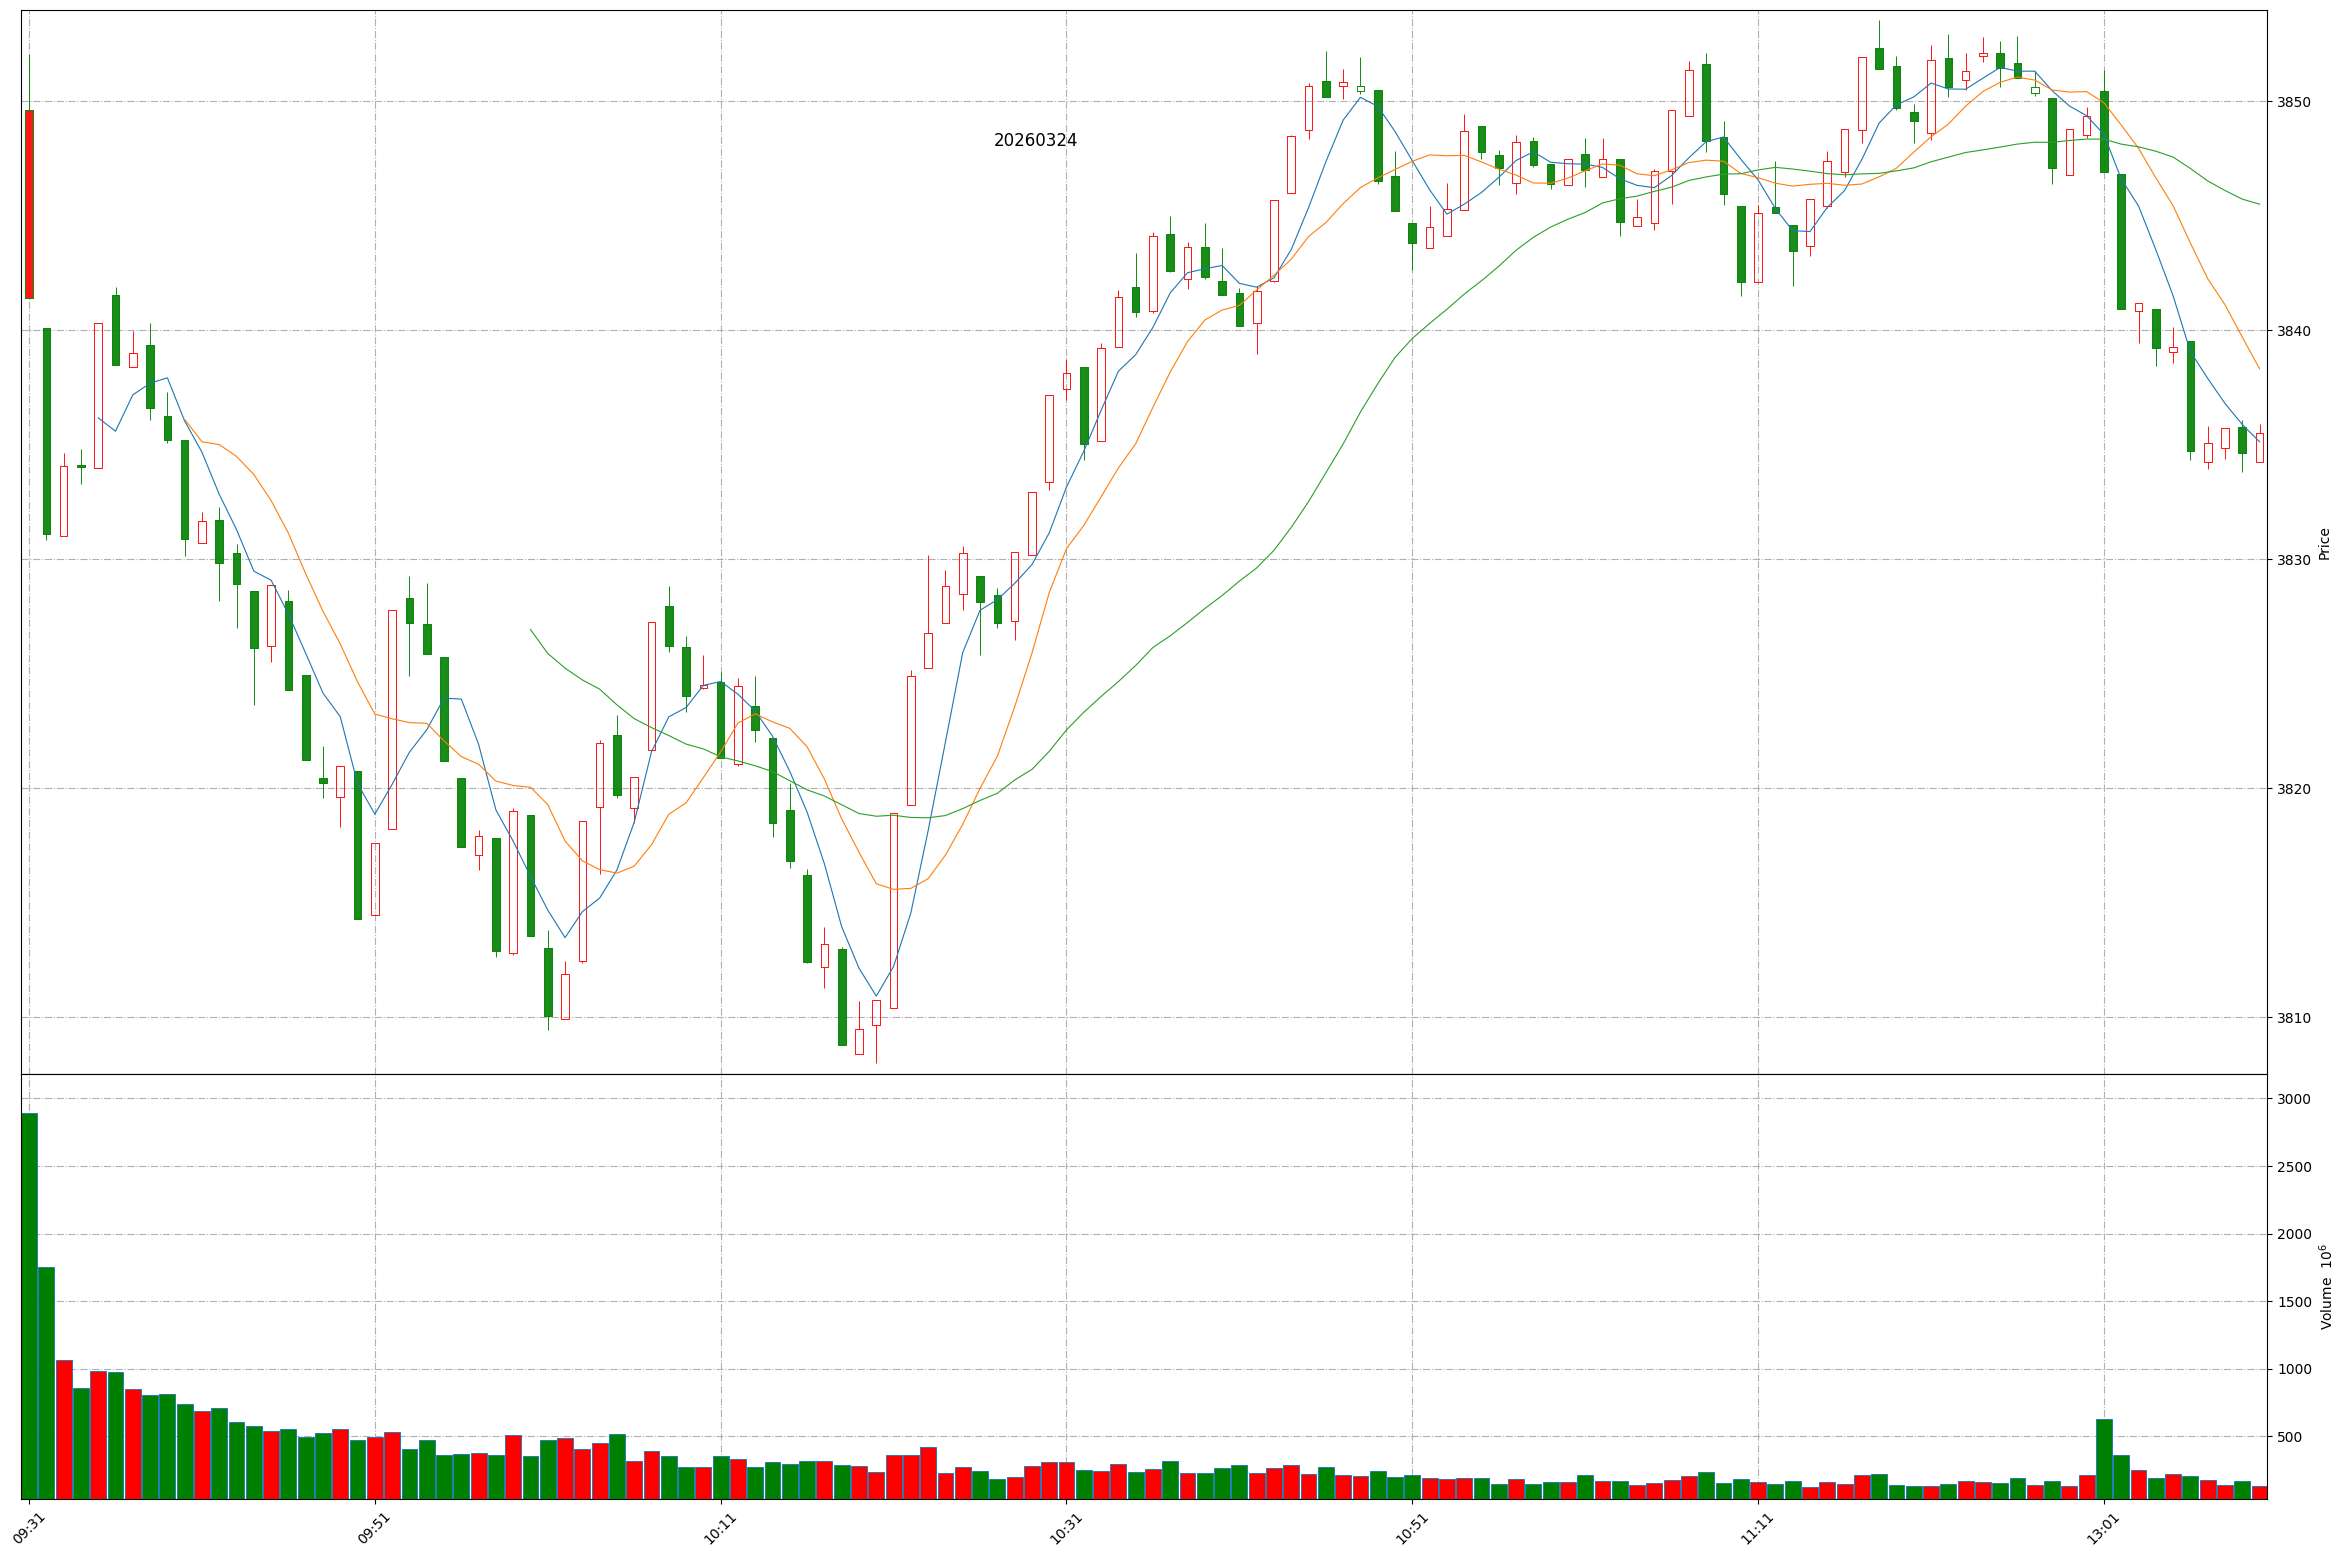
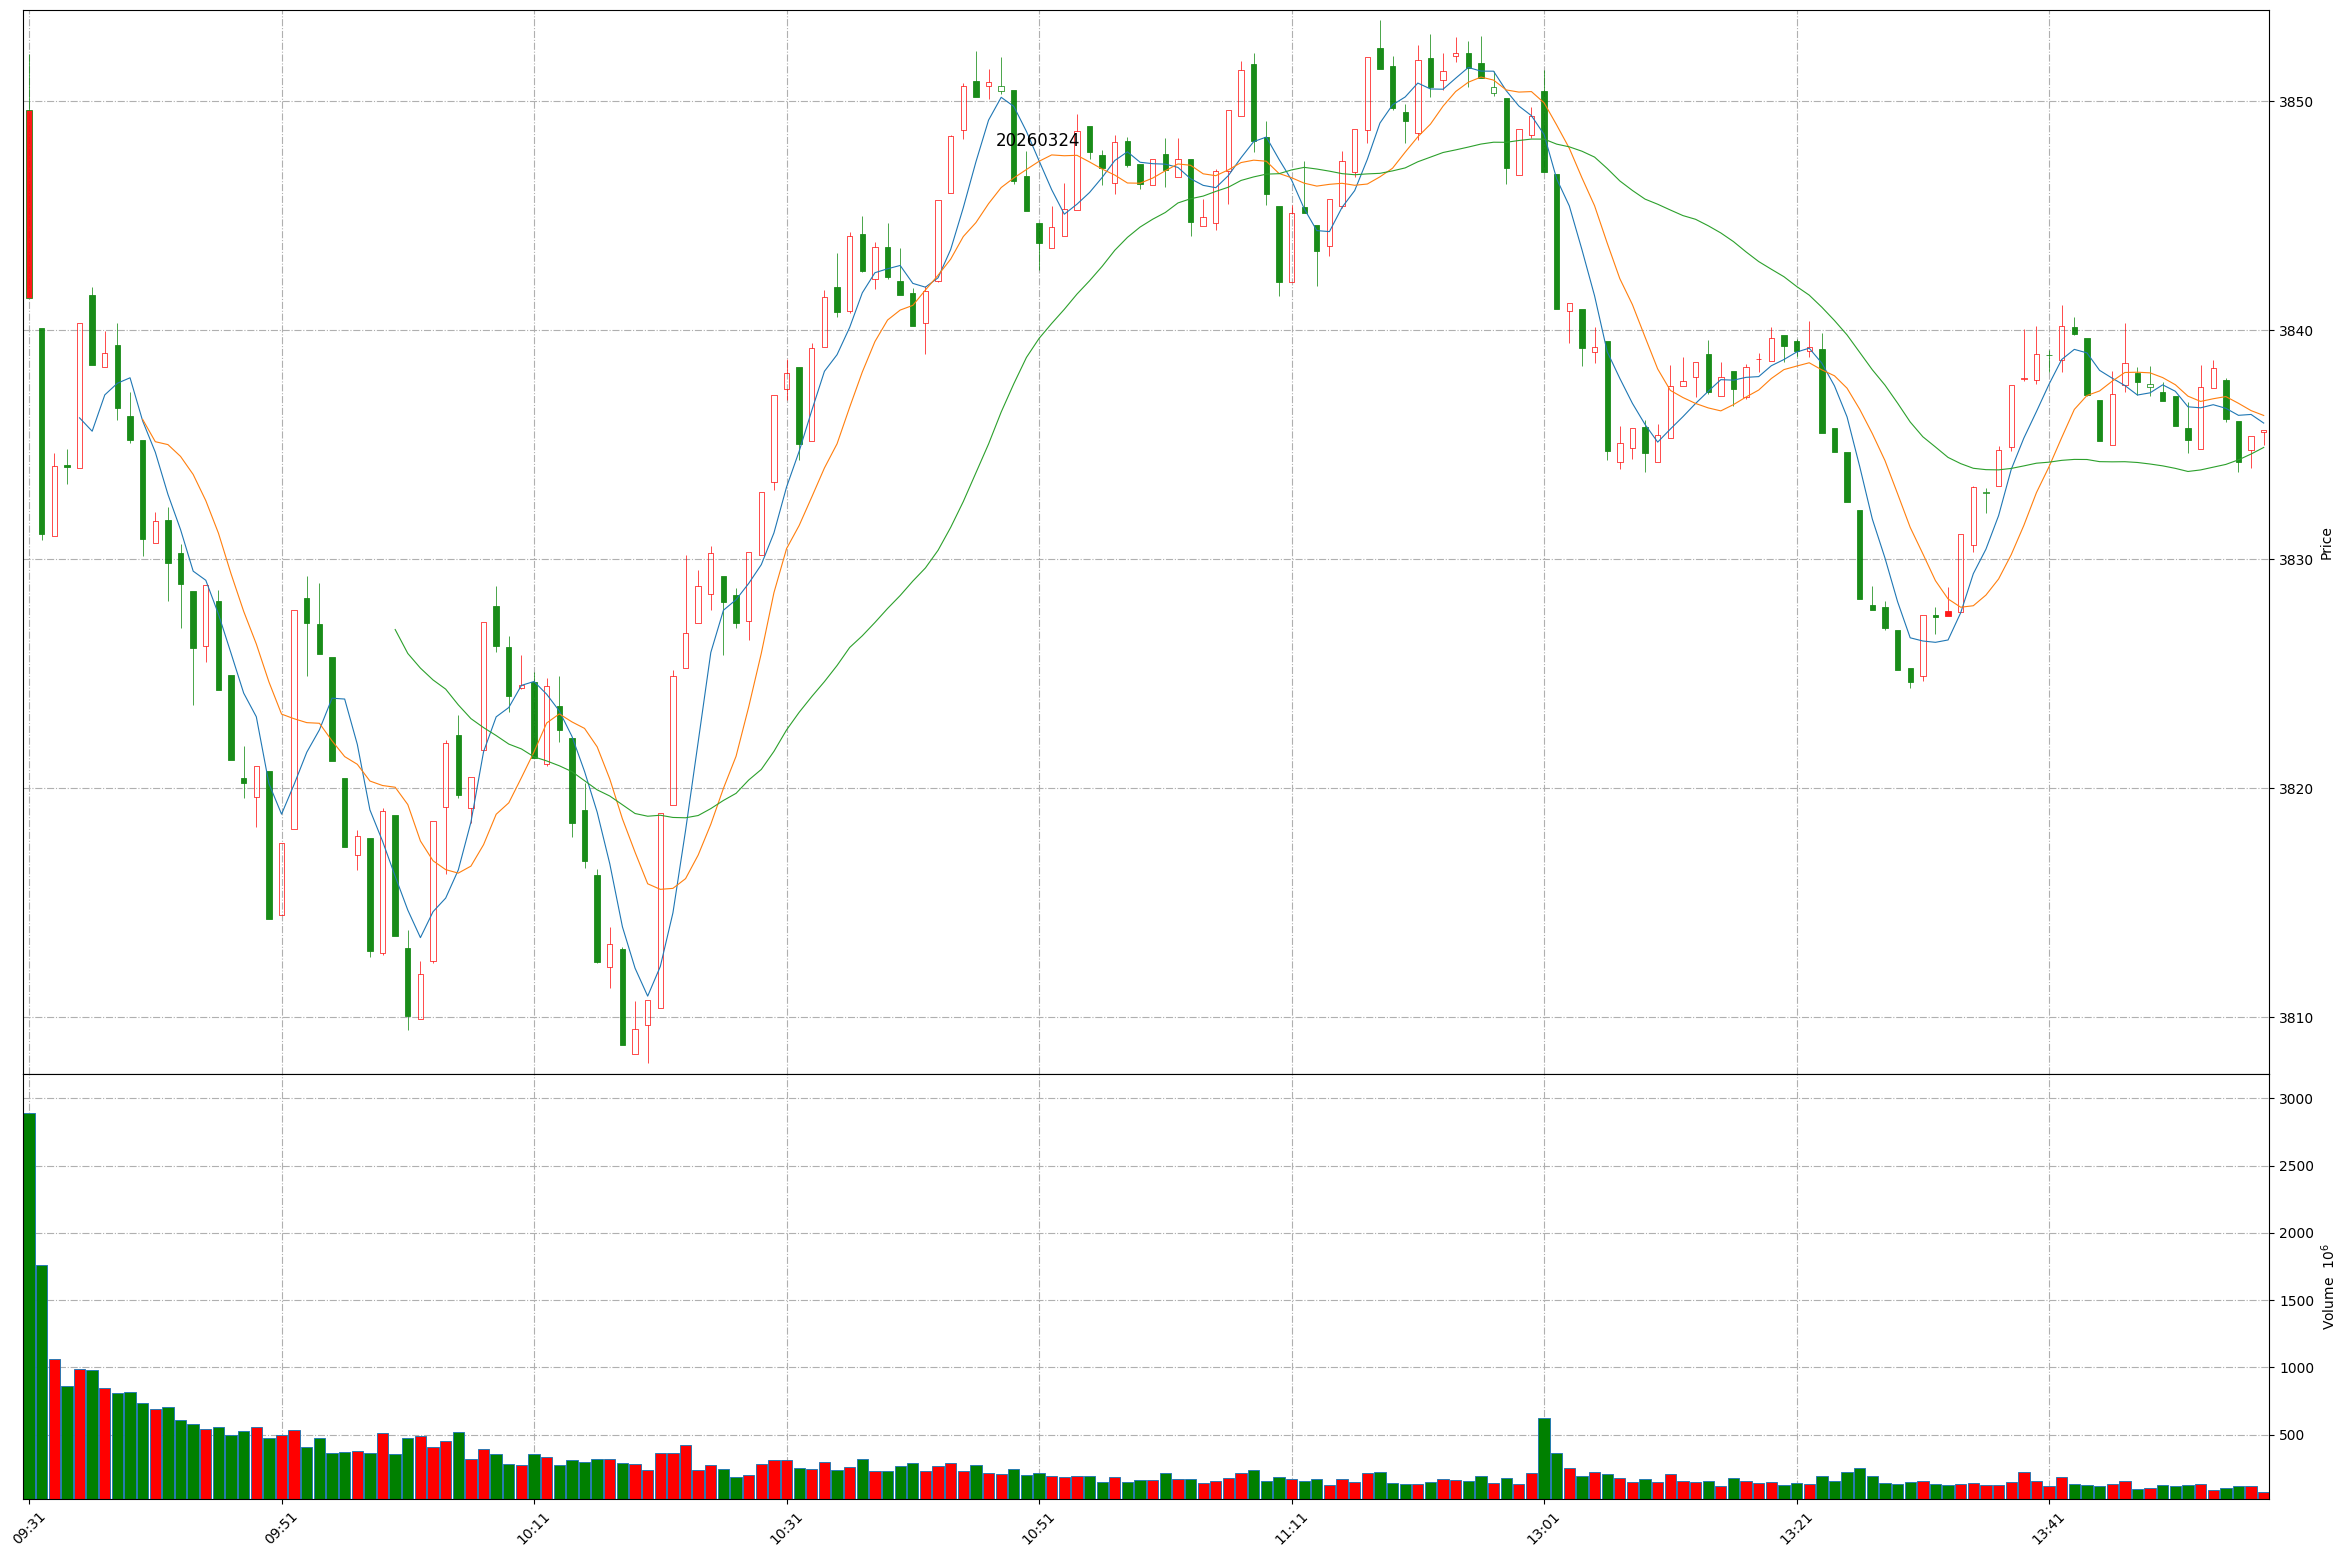
Github action update at 2026-03-24 13:57:55.

diff --git a/README.md b/README.md
@@ -1,11 +1,11 @@
 
 # Daily-A-share-market-quotes 每日 A 股指数（5min 更新）- 20260324
 
-### 上证指数 20260324 13:10
+### 上证指数 20260324 13:57
 ![](./fig/2026/3/20260324-sh000001.png)
 
-### 深证成指 20260324 13:10
+### 深证成指 20260324 13:57
 ![](./fig/2026/3/20260324-sz399001.png)
 
-### 北证50 20260324 13:10
+### 北证50 20260324 13:57
 ![](./fig/2026/3/20260324-bj899050.png)
